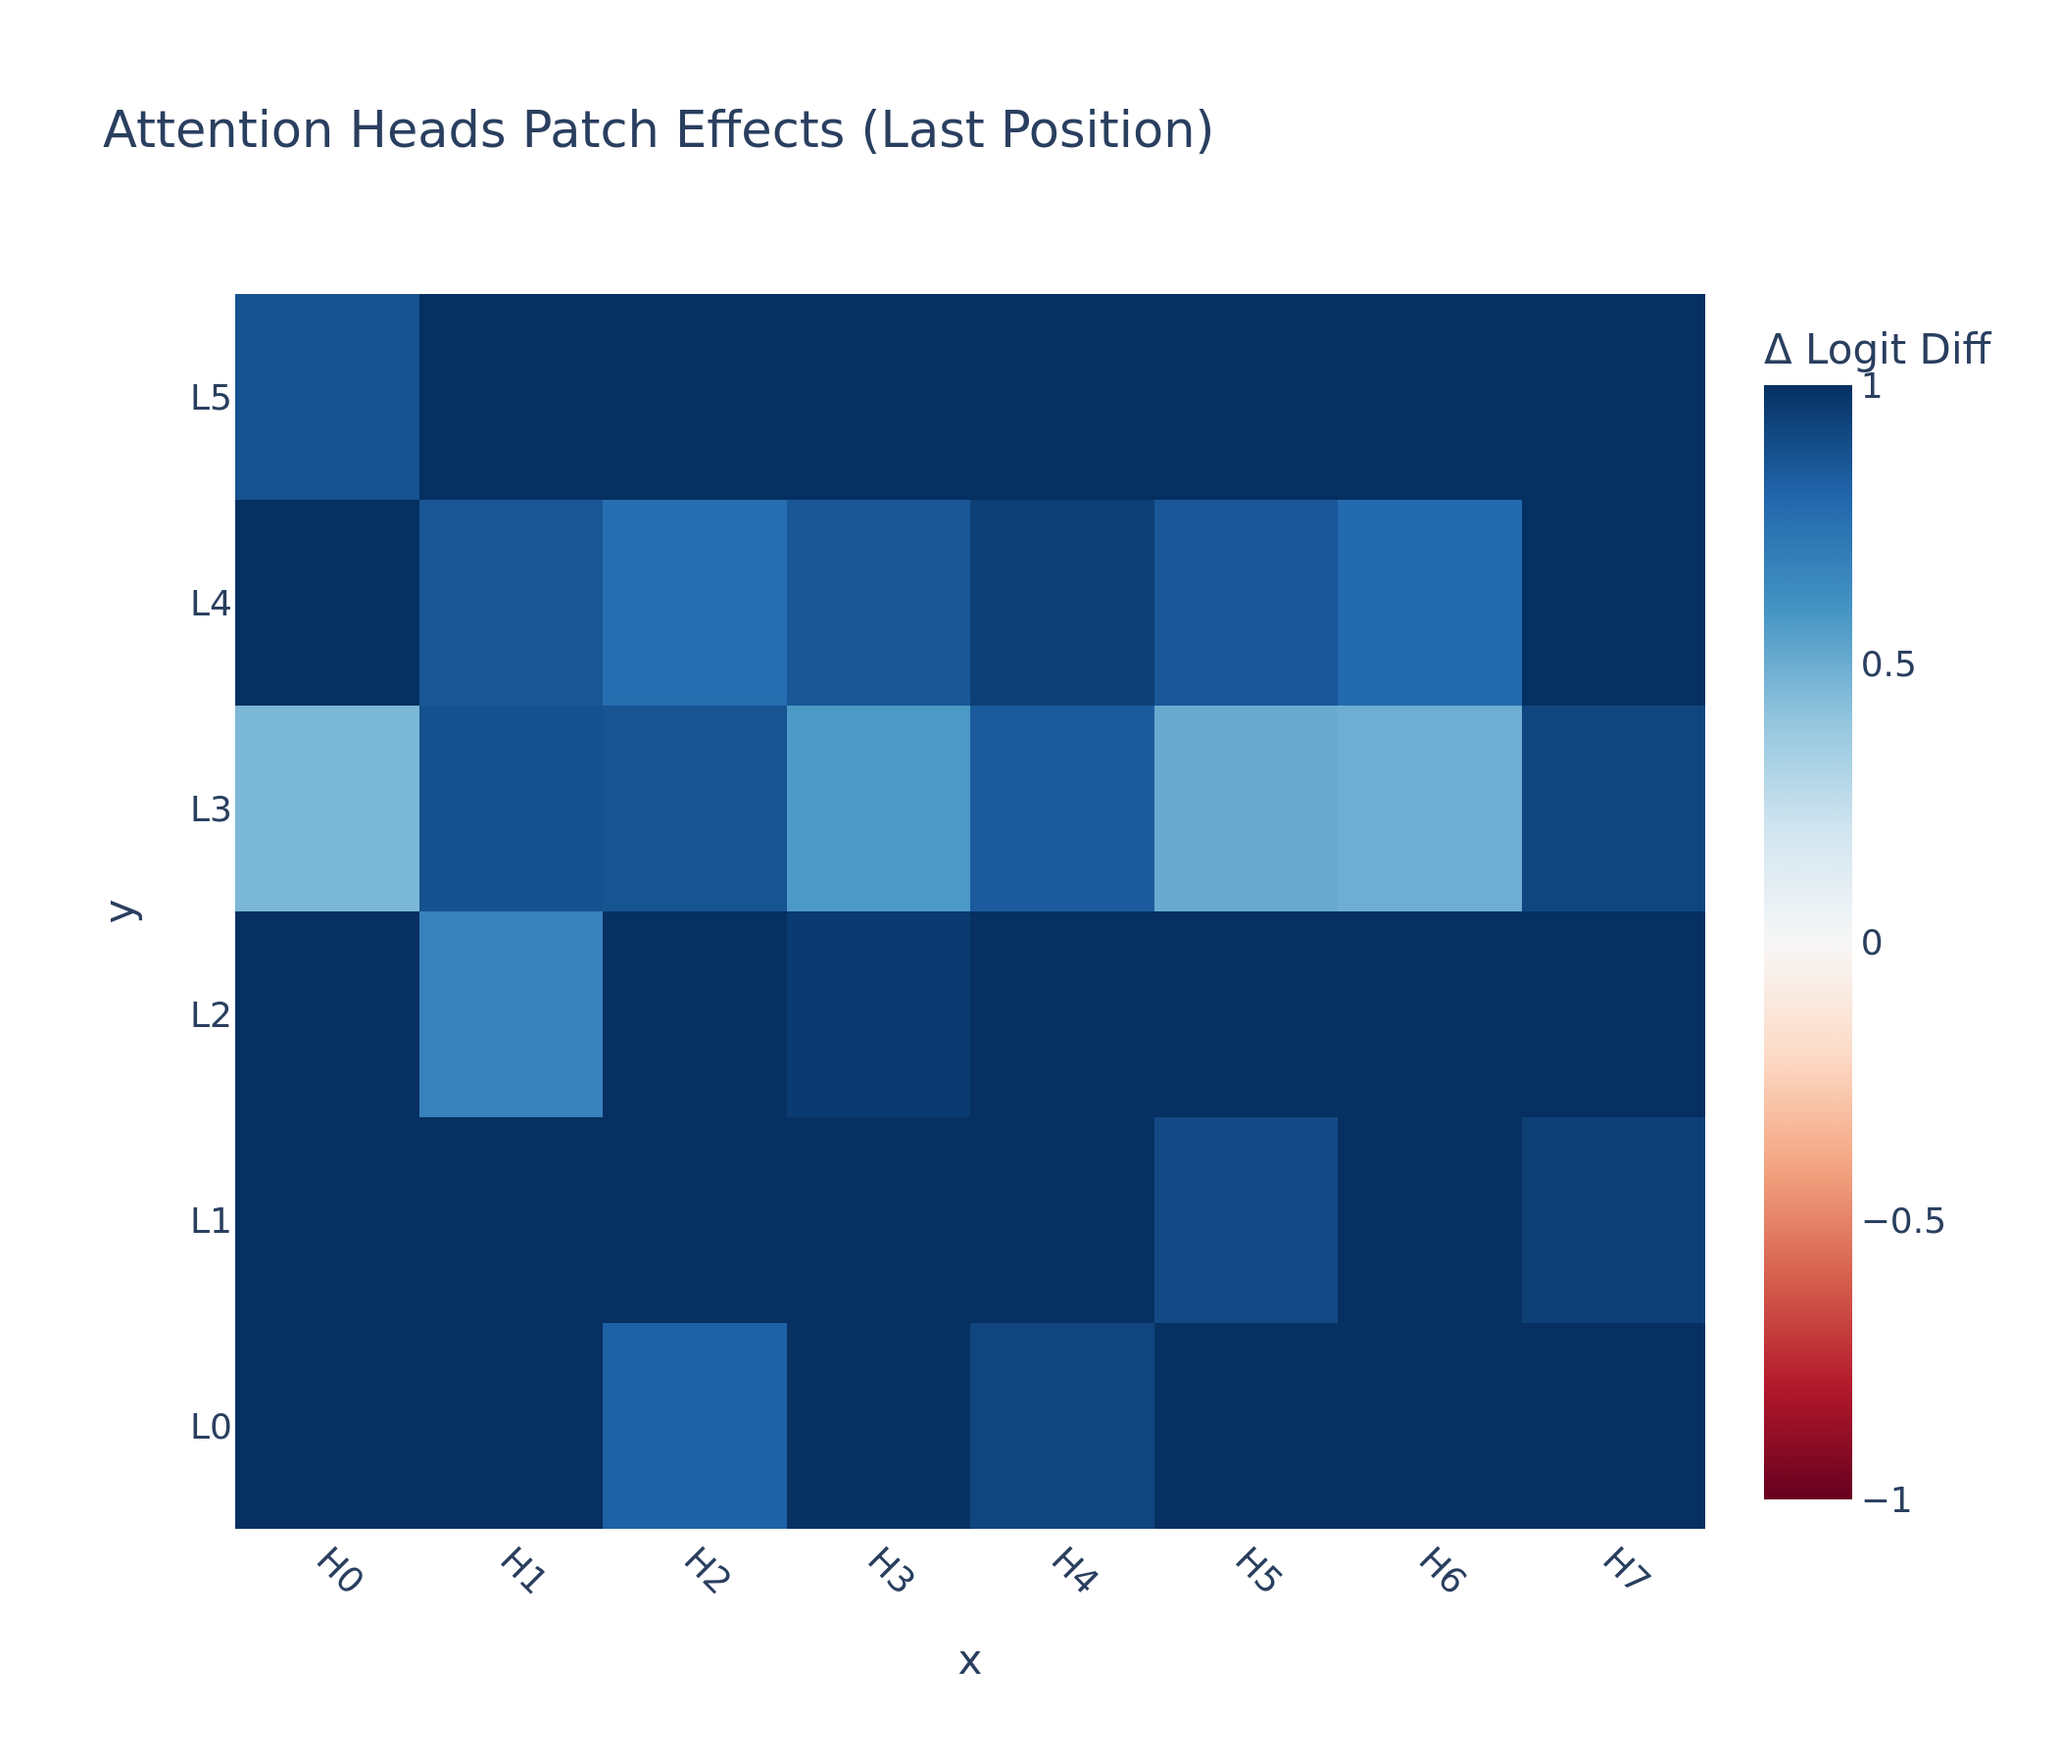
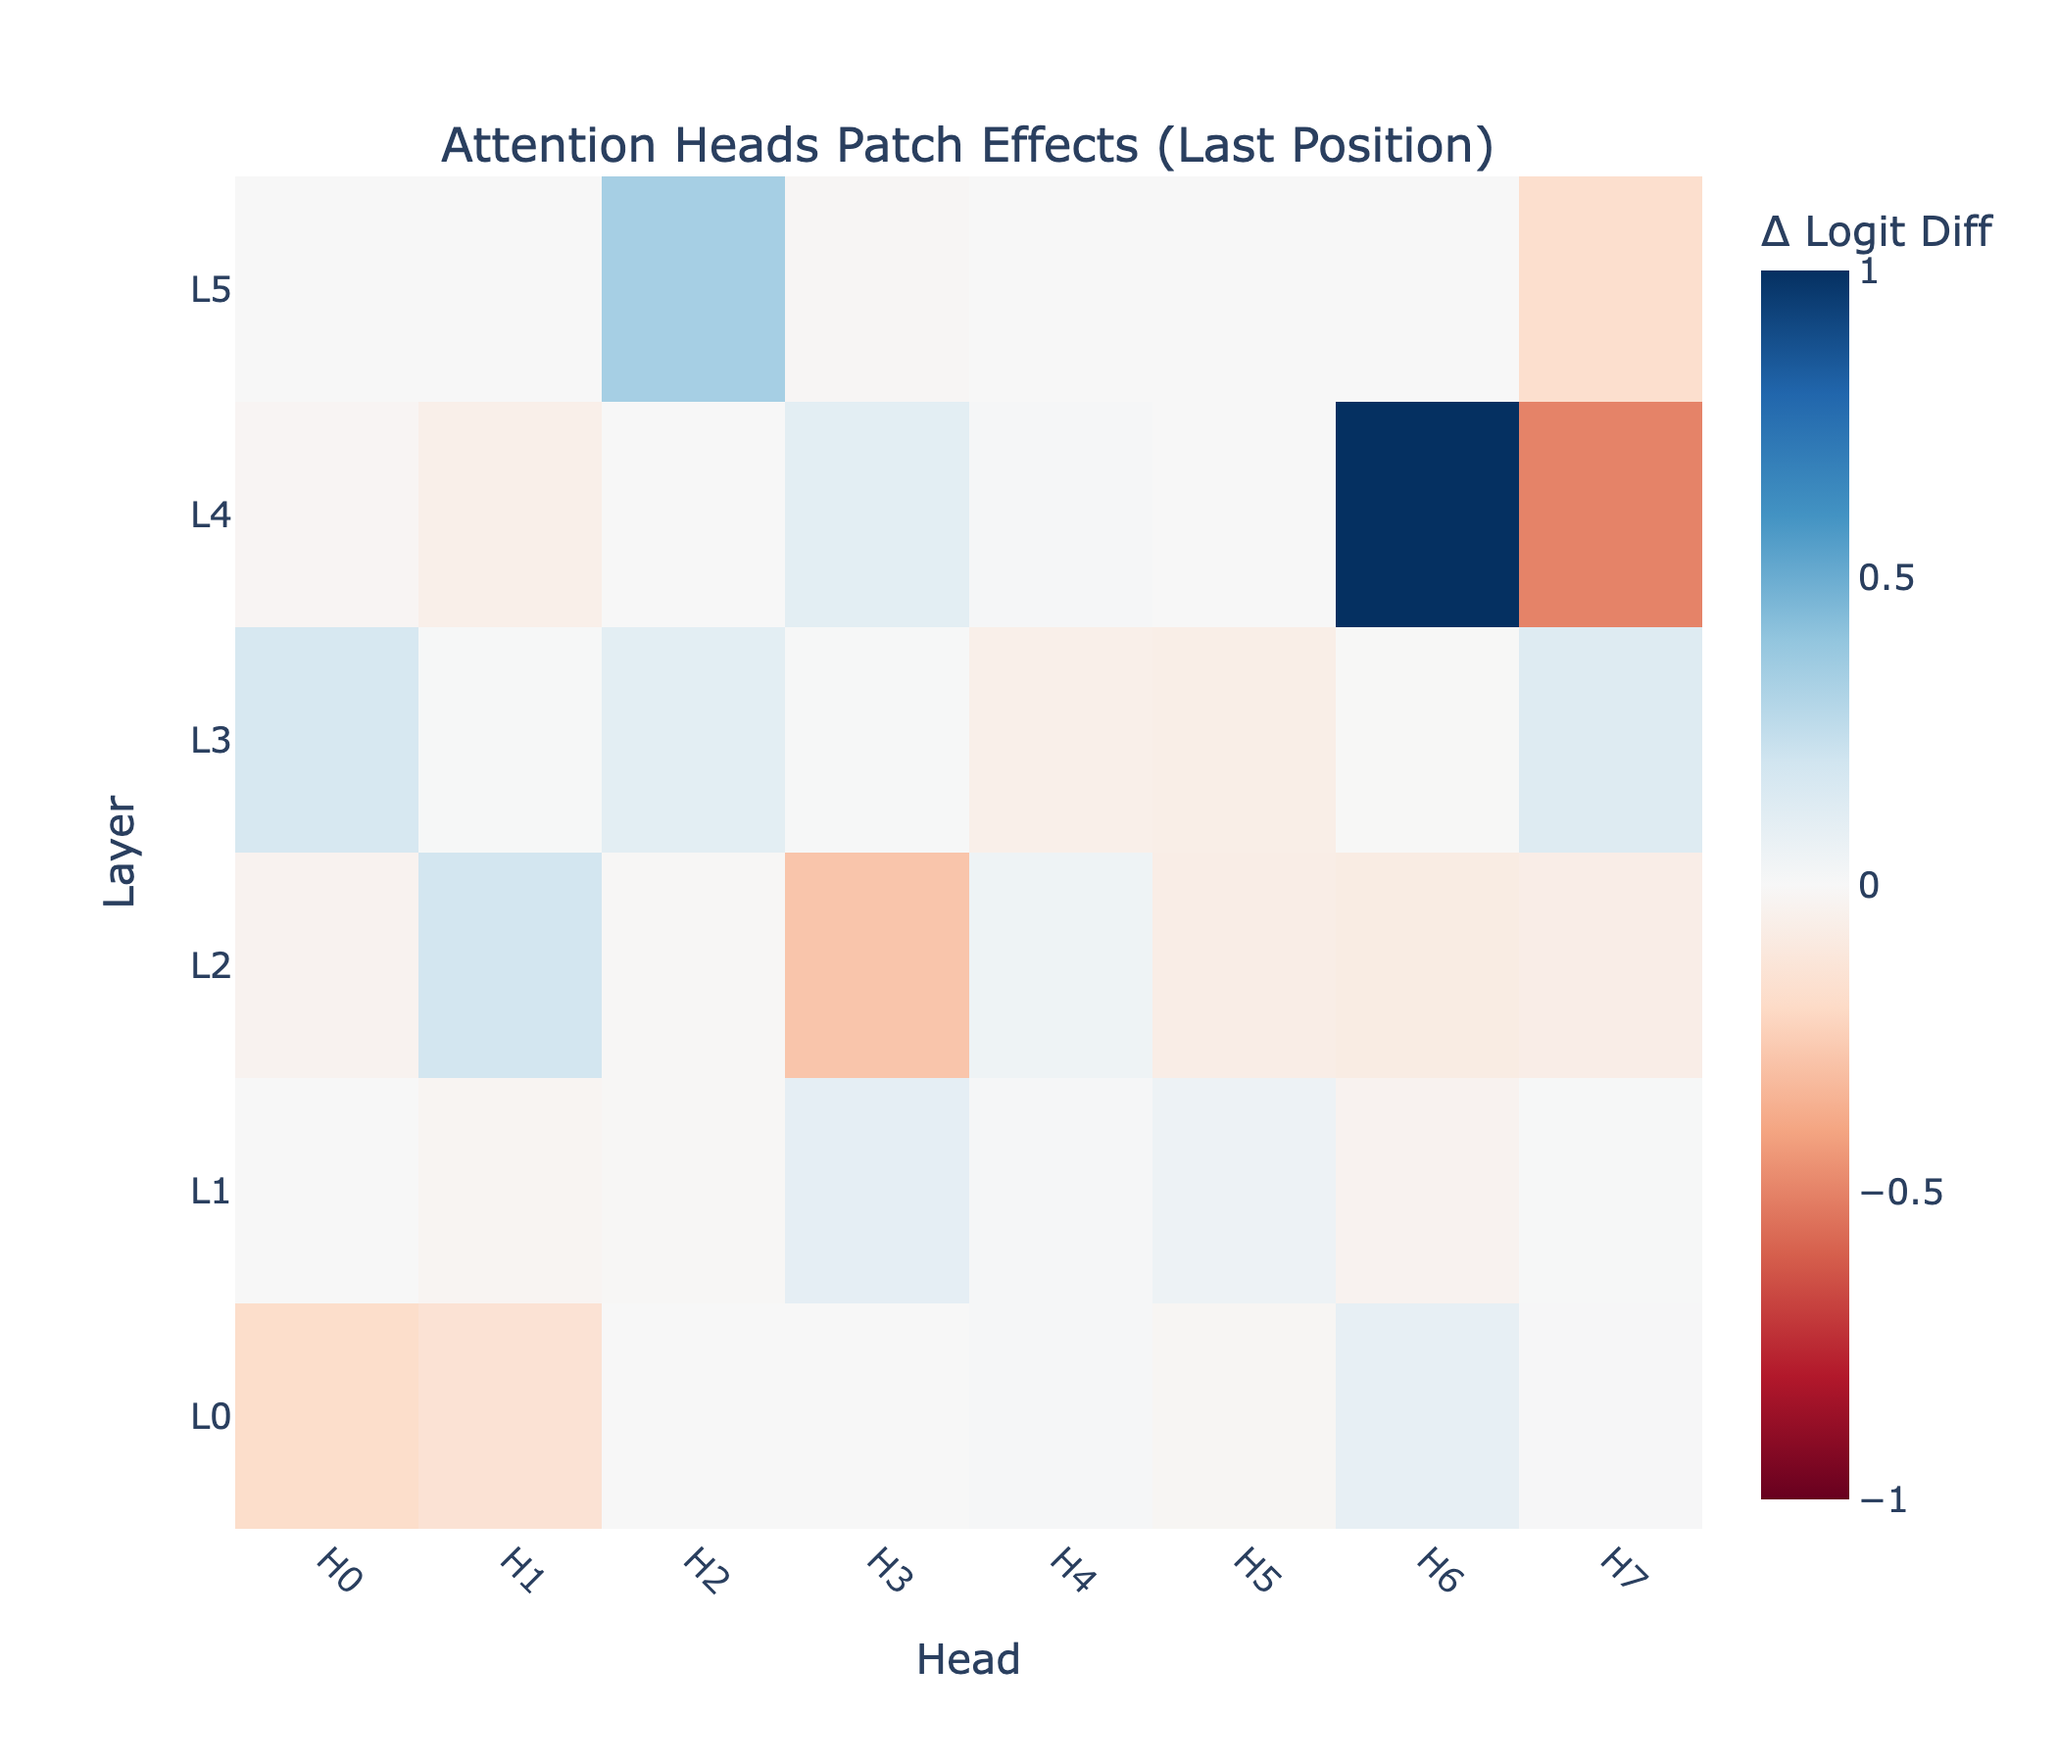
Patching figure update

diff --git a/src/Interpretability/Functions.py b/src/Interpretability/Functions.py
@@ -1382,8 +1382,13 @@ def plot_all_patch_effects_paper(model, patch_resid, patch_attn, patch_mlp, patc
     mlp = t.flip(patch_mlp, dims=[0])
     heads = t.flip(patch_heads, dims=[0])
 
+    tokens = model.to_str_tokens(model.to_tokens("Is 5678 > 1234? Answer:"))
+
+    def pretty(tok):
+        return tok.replace("Ġ", "▁") if tok.strip() else "<BOS>"
+
     y_labels = [f"L{L}" for L in range(num_layers - 1, -1, -1)]
-    x_pos = [f"pos {i}" for i in range(num_pos)]
+    x_pos = [f"{i}: {pretty(tok)}" for i, tok in enumerate(tokens)]
     x_heads = [f"H{i}" for i in range(num_heads)]
 
     # ============ LEFT FIGURE (3 components shared) ============
@@ -1397,11 +1402,16 @@ def plot_all_patch_effects_paper(model, patch_resid, patch_attn, patch_mlp, patc
         x=x_pos,
         zmin=-1, zmax=1,
         color_continuous_scale="RdBu",
-        title="Residual / Attention / MLP Patch Effects",
         return_fig=True
     )
+    fig_blocks.update_yaxes(title_text="Layer")
     fig_blocks.update_xaxes(tickangle=45)
-    fig_blocks.update_coloraxes(colorbar=dict(title="Δ Logit Diff"))
+    fig_blocks.layout.xaxis1.title = ""
+    fig_blocks.layout.xaxis2.title = "Sequence Position / Token"
+    fig_blocks.layout.xaxis3.title = ""
+    fig_blocks.layout.yaxis2.title = ""
+    fig_blocks.layout.yaxis3.title = ""
+    fig_blocks.update_coloraxes(colorbar=dict(title=dict(text="Δ Logit Diff", side="top")))
     fig_blocks.show()
 
     blocks_path = os.path.join(output_folder, "patch_blocks.png")
@@ -1415,11 +1425,21 @@ def plot_all_patch_effects_paper(model, patch_resid, patch_attn, patch_mlp, patc
         x=x_heads,
         zmin=-1, zmax=1,
         color_continuous_scale="RdBu",
-        title="Attention Heads Patch Effects (Last Position)",
         return_fig=True
     )
-    fig_heads.update_xaxes(tickangle=45)
-    fig_heads.update_coloraxes(colorbar=dict(title="Δ Logit Diff"))
+    fig_heads.add_annotation(
+        text="Attention Heads Patch Effects (Last Position)",
+        x=0.5,
+        y=1.05,
+        xref="paper",
+        yref="paper",
+        showarrow=False,
+        font=dict(size=16),
+        align="center"
+    )
+    fig_heads.update_yaxes(title_text="Layer")
+    fig_heads.update_xaxes(tickangle=45, title_text="Head")
+    fig_heads.update_coloraxes(colorbar=dict(title=dict(text="Δ Logit Diff", side="top")))
     fig_heads.show()
 
     heads_path = os.path.join(output_folder, "patch_heads.png")

diff --git a/src/Experiments/Logit/activation_patching.py b/src/Experiments/Logit/activation_patching.py
@@ -14,10 +14,10 @@ from Interpretability import build_dataset, build_dataset_space, compute_act_pat
 from neel_plotly import imshow
 import transformer_lens.utils as utils
 
-dataset = build_dataset(n=100, low=1000, high=9999)
+dataset = build_dataset(n=1, low=1000, high=9999)
 #dataset = build_dataset_space(n=100, low=1000, high=9999)
 
-#model_name = "pythia-70m"
+model_name = "pythia-70m"
 #model_name = "qwen2.5-3b"
 #model_name = "qwen3-1.7b"
 #model_name = "phi-3"
@@ -25,7 +25,7 @@ dataset = build_dataset(n=100, low=1000, high=9999)
 #model_name = "llama3-8b-it"
 #model_name = "qwen2.5-7b"
 #model_name = "qwen1.5-4b"
-model_name = "qwen3-4b"
+#model_name = "qwen3-4b"
 
 model = load_model(model_name, torch_dtype = t.float32)
 device = get_device()
@@ -90,4 +90,4 @@ plot_all_patch_effects_paper(
     output_folder
 )
 #plot_component_scores(patch_full, model, component_plot_path)
-plot_component_scores_lastpos(patch_full, model, component_plot_path)
+#plot_component_scores_lastpos(patch_full, model, component_plot_path)

diff --git a/src/Experiments/Activation_Patching/batched_act_patch_all.py b/src/Experiments/Activation_Patching/batched_act_patch_all.py
@@ -23,8 +23,10 @@ login(token=hf_key)
 
 #%%
 
+model_name = "EleutherAI/pythia-70m-deduped"
+
 model = HookedTransformer.from_pretrained(
-    "Qwen/Qwen3-1.7b",
+    model_name,
     center_unembed=True,
     center_writing_weights=True,
     fold_ln=True,
@@ -166,7 +168,6 @@ results = act_patch(
 
 imshow(
     results['z'] * 100,
-    title="Attn head output",
     labels={"x": "Head", "y": "Layer", "color": "Logit diff variation"},
     coloraxis=dict(colorbar_ticksuffix = "%"),
     border=True,
